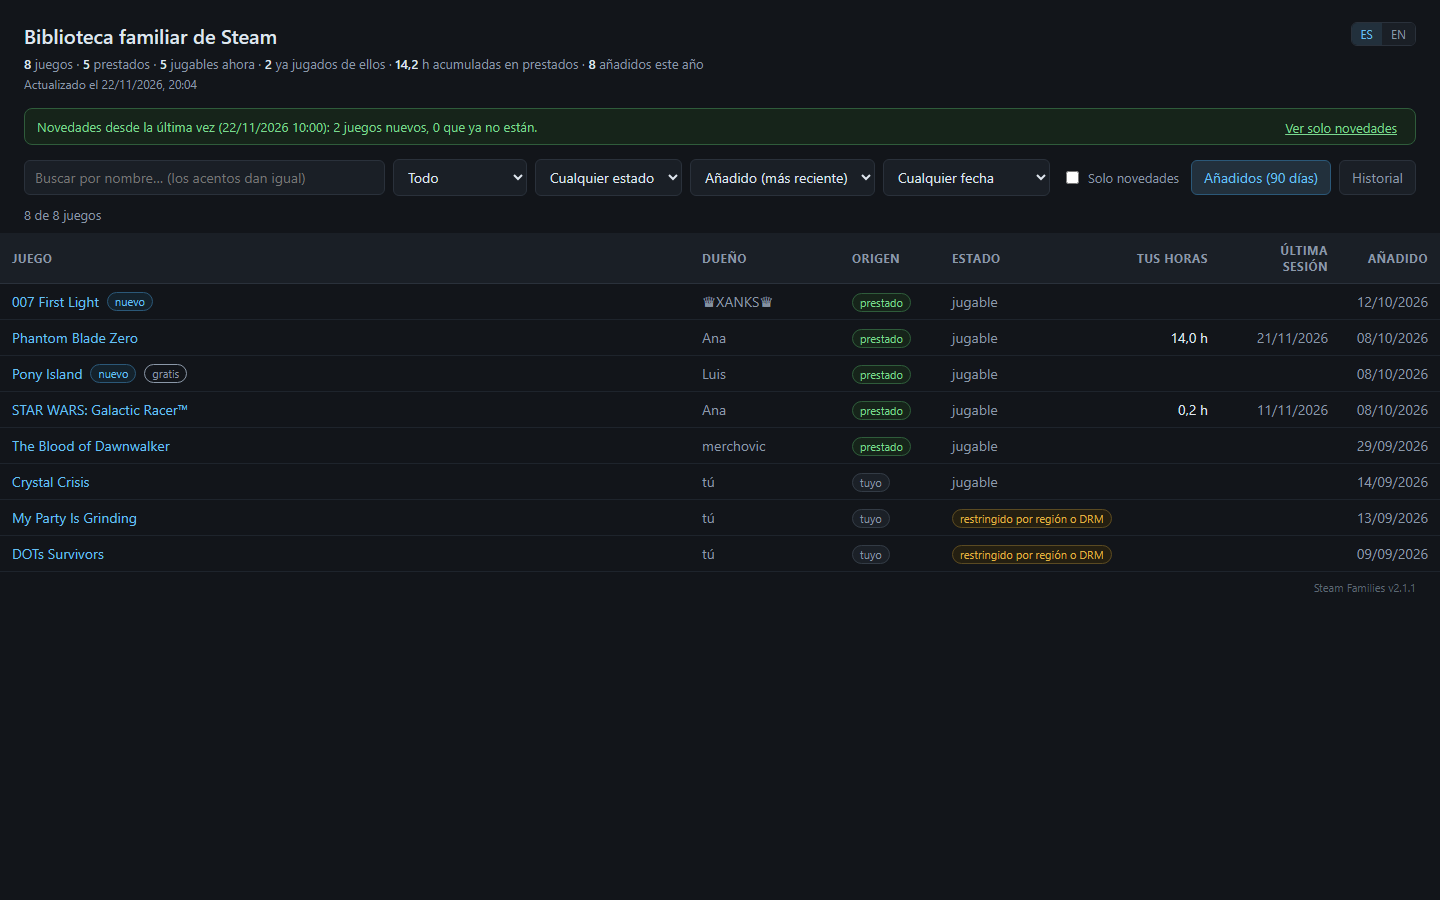
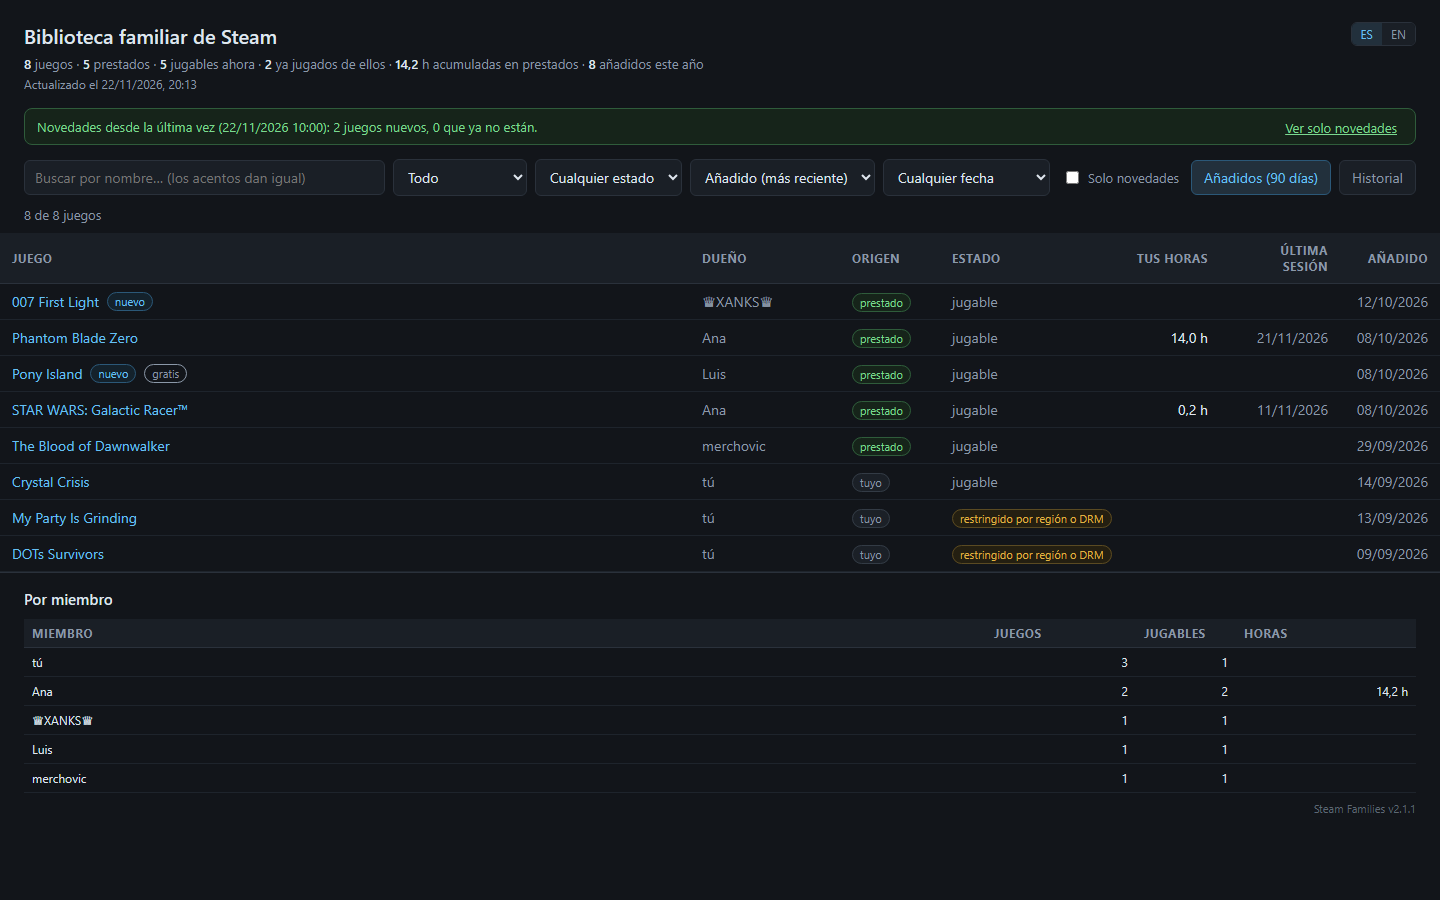
Añade estadísticas por miembro
Objetivo 3: juegos, jugables y horas por cada miembro, con los nombres del
snapshot y sin consultar Steam.

diff --git a/steam_families.py b/steam_families.py
@@ -651,6 +651,10 @@ td.der { text-align:right; font-variant-numeric:tabular-nums; white-space:nowrap
 #vacio { padding:30px 24px; color:var(--suave); }
 #version { padding:8px 24px 20px; color:#5d6773; font-size:11px; text-align:right; }
 #historialCaja { padding:16px 24px 30px; border-top:1px solid var(--borde); }
+#miembrosCaja { padding:16px 24px 0; border-top:1px solid var(--borde); }
+#miembrosCaja h2 { font-size:15px; margin:0 0 10px; font-weight:600; }
+#miembrosCaja table { min-width:0; }
+#miembrosCaja th, #miembrosCaja td { font-size:12px; padding:6px 8px; }
 #historialCaja h2 { font-size:15px; margin:0 0 10px; font-weight:600; }
 #historialCaja table { min-width:0; }
 #historialCaja th, #historialCaja td { font-size:12px; padding:6px 8px; }
@@ -729,6 +733,10 @@ td.der { text-align:right; font-variant-numeric:tabular-nums; white-space:nowrap
   <tbody id="cuerpo"></tbody>
 </table>
 <div id="vacio" hidden data-t="vacio">Ningún juego cumple esos filtros.</div>
+<section id="miembrosCaja">
+  <h2 data-t="miembrosTitulo">Por miembro</h2>
+  <div id="miembrosTabla"></div>
+</section>
 <section id="historialCaja" hidden>
   <h2 data-t="historialTitulo">Historial de novedades</h2>
   <div class="controles" style="padding:0 0 10px">
@@ -753,6 +761,7 @@ const HAY_NOV = __HAY_NOV__;
 const ACTUALIZADO = __ACTUALIZADO__;
 const SIN_NOMBRE = __SIN_NOMBRE__;
 const HISTORIAL = __HISTORIAL__;
+const NOMBRES = __NOMBRES__;
 
 const TEXTOS = {
   es: {
@@ -785,6 +794,10 @@ const TEXTOS = {
     historialSinFiltros: "Ninguna novedad cumple esos filtros.",
     historialBuscar: "Buscar por juego o miembro…",
     historialCuenta: "%n% de %m% novedades",
+    miembrosTitulo: "Por miembro",
+    miembro: "Miembro",
+    jugablesHeader: "Jugables",
+    horasHeader: "Horas",
     tipo: "Tipo",
     desde: "Desde",
     hasta: "Hasta",
@@ -857,6 +870,10 @@ const TEXTOS = {
     historialSinFiltros: "No change matches those filters.",
     historialBuscar: "Search by game or member…",
     historialCuenta: "%n% of %m% changes",
+    miembrosTitulo: "By member",
+    miembro: "Member",
+    jugablesHeader: "Playable",
+    horasHeader: "Hours",
     tipo: "Type",
     desde: "From",
     hasta: "To",
@@ -1180,6 +1197,54 @@ function pintaNombres() {
     ? T("sinNombreUno") : T("sinNombre").replace("%n%", SIN_NOMBRE);
 }
 
+function pintaMiembros() {
+  const acumulado = new Map();
+  DATOS.forEach(d => (d.o || []).forEach(h => {
+    const m = acumulado.get(h) || {j: 0, p: 0, m: 0};
+    m.j += 1;
+    if (d.p) m.p += 1;
+    m.m += d.m;
+    acumulado.set(h, m);
+  }));
+  const filas = [...acumulado.entries()].map(([h, m]) => {
+    let nombre = NOMBRES[h] || h;
+    nombre = nombre === "tú" ? T("tu")
+      : nombre.replace(/^Miembro (\d+)$/, (todo, n) => IDIOMA === "en" ? "Member " + n : todo);
+    return {nombre, j: m.j, p: m.p, m: m.m};
+  });
+  filas.sort((a, b) => b.j - a.j || compara(a.nombre, b.nombre));
+
+  const tabla = document.createElement("table");
+  const thead = document.createElement("thead");
+  const fila = document.createElement("tr");
+  [T("miembro"), T("juegos"), T("jugablesHeader"), T("horasHeader")].forEach(texto => {
+    const th = document.createElement("th");
+    th.textContent = texto;
+    fila.appendChild(th);
+  });
+  thead.appendChild(fila);
+
+  const tbody = document.createElement("tbody");
+  filas.forEach(f => {
+    const tr = document.createElement("tr");
+    const nombre = document.createElement("td");
+    nombre.textContent = f.nombre;
+    const juegos = document.createElement("td");
+    juegos.className = "der";
+    juegos.textContent = numero(f.j);
+    const jugables = document.createElement("td");
+    jugables.className = "der";
+    jugables.textContent = numero(f.p);
+    const tiempo = document.createElement("td");
+    tiempo.className = "der";
+    tiempo.textContent = f.m > 0 ? horas(f.m) + " h" : "";
+    tr.append(nombre, juegos, jugables, tiempo);
+    tbody.appendChild(tr);
+  });
+  tabla.append(thead, tbody);
+  $("miembrosTabla").replaceChildren(tabla);
+}
+
 function pintaHistorial() {
   const caja = $("historialCaja");
   if (caja.hidden) return;
@@ -1255,6 +1320,7 @@ function aplicaIdioma() {
   pintaAviso();
   pintaActualizado();
   pintaNombres();
+  pintaMiembros();
   pintaHistorial();
   pinta();
 }
@@ -1488,6 +1554,7 @@ def generar_panel(datos):
             "g": bool(e.get("gratis")) if e else False,
             "v": (por_appid.get(appid) or {}).get("v", ""),
             "q": r["acquired"],
+            "o": (por_appid.get(appid) or {}).get("o", []),
         })
 
     prestados = [j for j in juegos if j["s"] == "family"]
@@ -1509,6 +1576,8 @@ def generar_panel(datos):
     sin_nombre = sum(1 for v in alias.values() if str(v).startswith("Miembro "))
     html = html.replace("__SIN_NOMBRE__", str(sin_nombre))
     html = html.replace("__VERSION__", VERSION)
+    html = html.replace("__NOMBRES__", json.dumps(alias, ensure_ascii=False,
+                                                 separators=(",", ":")).replace("</", "<\\/"))
     historial = json.dumps(leer_historial(datos), ensure_ascii=False,
                            separators=(",", ":")).replace("</", "<\\/")
     html = html.replace("__HISTORIAL__", historial)

diff --git a/pruebas/test_interfaz.py b/pruebas/test_interfaz.py
@@ -178,6 +178,16 @@ class PruebaInterfaz(unittest.TestCase):
         self.assertEqual(pagina.locator(filas).count(), 1)
         self.assertIn("Viejo", pagina.inner_text("#historialTabla"))
 
+    def test_miembros(self):
+        pagina = self.pagina("/panel.html")
+        filas = pagina.locator("#miembrosTabla tbody tr").all_inner_texts()
+        self.assertEqual(len(filas), 2)
+        ana = [f for f in filas if "Ana" in f][0]
+        yo = [f for f in filas if "tú" in f][0]
+        self.assertIn("2", ana)
+        self.assertIn("2,0 h", ana)
+        self.assertIn("1,0 h", yo)
+
 
 if __name__ == "__main__":
     unittest.main()

diff --git a/pruebas/test_logica.py b/pruebas/test_logica.py
@@ -546,6 +546,8 @@ class PruebaPanel(unittest.TestCase):
             self.assertIn("v" + sfl.VERSION, html)
             self.assertIn("const HISTORIAL = [", html)
             self.assertIn("Paseo", html)
+            self.assertIn("const NOMBRES = {", html)
+            self.assertIn('"o":["', html)
 
             prestados = list(csv.DictReader((d / "prestados.csv").open(encoding="utf-8-sig")))
             self.assertEqual(len(prestados), 2)
